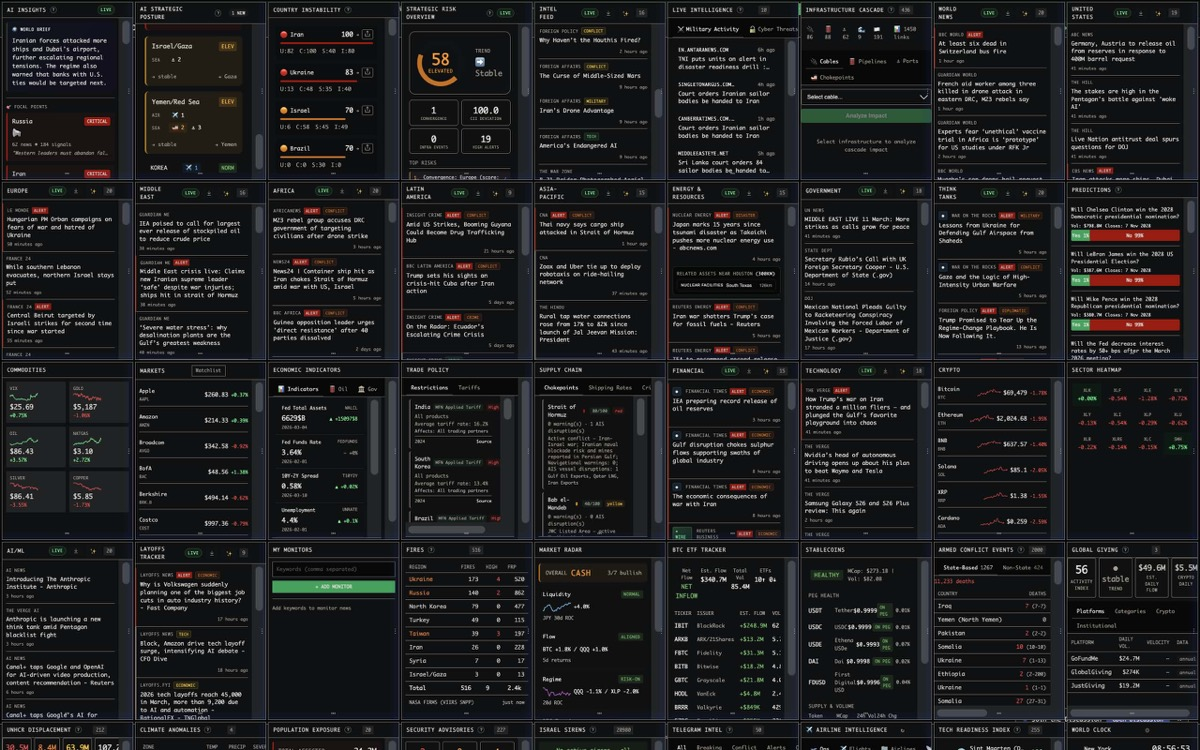
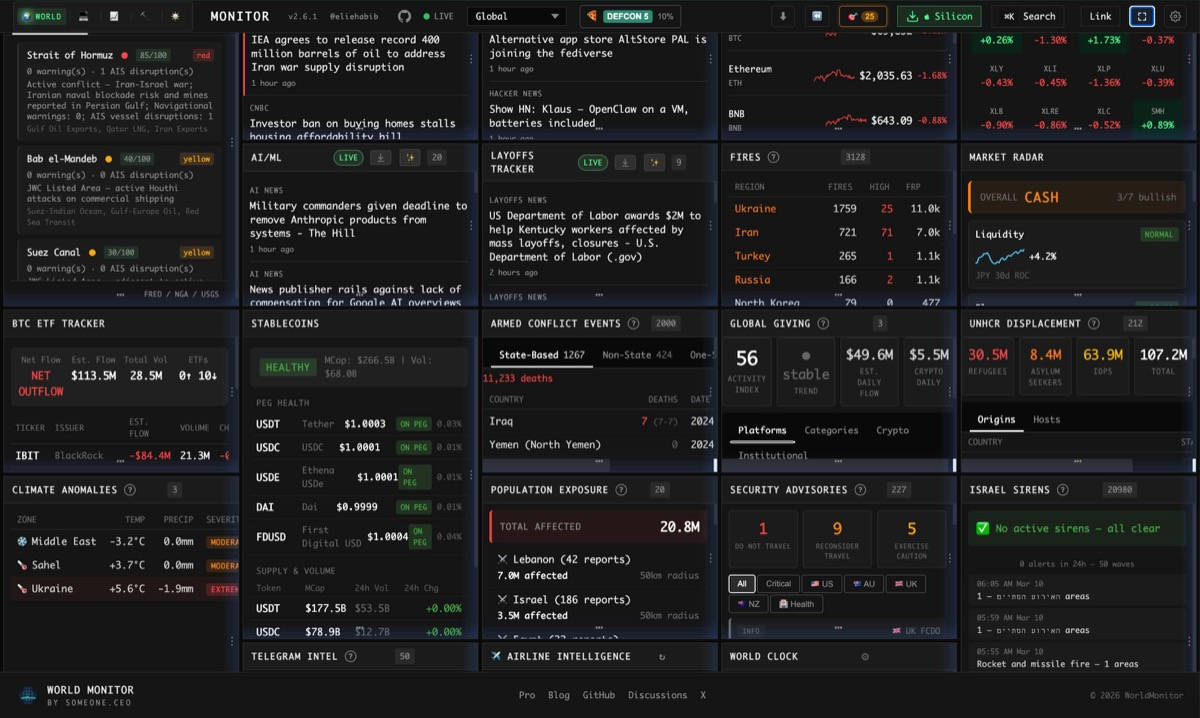
feat(blog): add hero images for remaining 2 articles (#1440)
* feat(blog): add hero images for market intelligence and global conflicts articles

Complete hero image coverage for all 16 blog posts.

* fix(blog): add spacing between post cards on blog index

Replace 1px grid gap with 1.5rem spacing and give cards their own
background, border, and rounded corners for better visual separation.

* fix(blog): replace OSINT article hero image with updated version

diff --git a/blog-site/src/styles/global.css b/blog-site/src/styles/global.css
@@ -269,17 +269,17 @@ img { max-width: 100%; height: auto; border-radius: var(--radius); }
 .post-grid {
   display: grid;
   grid-template-columns: repeat(auto-fill, minmax(340px, 1fr));
-  gap: 1px;
-  background: var(--wm-border);
-  border: 1px solid var(--wm-border);
+  gap: 1.5rem;
 }
 
 .post-card {
-  background: var(--wm-bg);
+  background: var(--wm-card);
+  border: 1px solid var(--wm-border);
+  border-radius: var(--radius);
   padding: 0;
   display: flex;
   flex-direction: column;
-  transition: background 0.2s;
+  transition: background 0.2s, border-color 0.2s;
   color: inherit;
   overflow: hidden;
 }
@@ -315,7 +315,7 @@ img { max-width: 100%; height: auto; border-radius: var(--radius); }
 }
 
 .post-card:hover {
-  background: var(--wm-card);
+  border-color: var(--wm-green);
 }
 
 .post-card .tag {

diff --git a/blog-site/src/content/blog/real-time-market-intelligence-for-traders-and-analysts.md b/blog-site/src/content/blog/real-time-market-intelligence-for-traders-and-analysts.md
@@ -4,6 +4,7 @@ description: "Monitor 92 stock exchanges, 13 central banks, commodity prices, pr
 metaTitle: "Free Real-Time Market Intelligence Dashboard for Traders | WorldMonitor Finance"
 keywords: "real-time market intelligence, stock market dashboard free, financial intelligence platform, macro trading signals, market monitoring tool"
 audience: "Retail and professional traders, financial analysts, macro investors, fintech enthusiasts"
+heroImage: "/blog/images/blog/real-time-market-intelligence-for-traders-and-analysts.jpg"
 pubDate: "2026-02-21"
 ---
 

diff --git a/blog-site/src/content/blog/track-global-conflicts-in-real-time.md b/blog-site/src/content/blog/track-global-conflicts-in-real-time.md
@@ -4,6 +4,7 @@ description: "Monitor active conflicts, military movements, and geopolitical esc
 metaTitle: "Track Global Conflicts in Real Time | Free Geopolitical Intelligence Map"
 keywords: "real-time conflict map, geopolitical intelligence map, military tracking dashboard, conflict monitoring tool, global conflict tracker"
 audience: "Geopolitical analysts, defense researchers, policy makers, journalists covering conflict"
+heroImage: "/blog/images/blog/track-global-conflicts-in-real-time.jpg"
 pubDate: "2026-02-14"
 ---
 